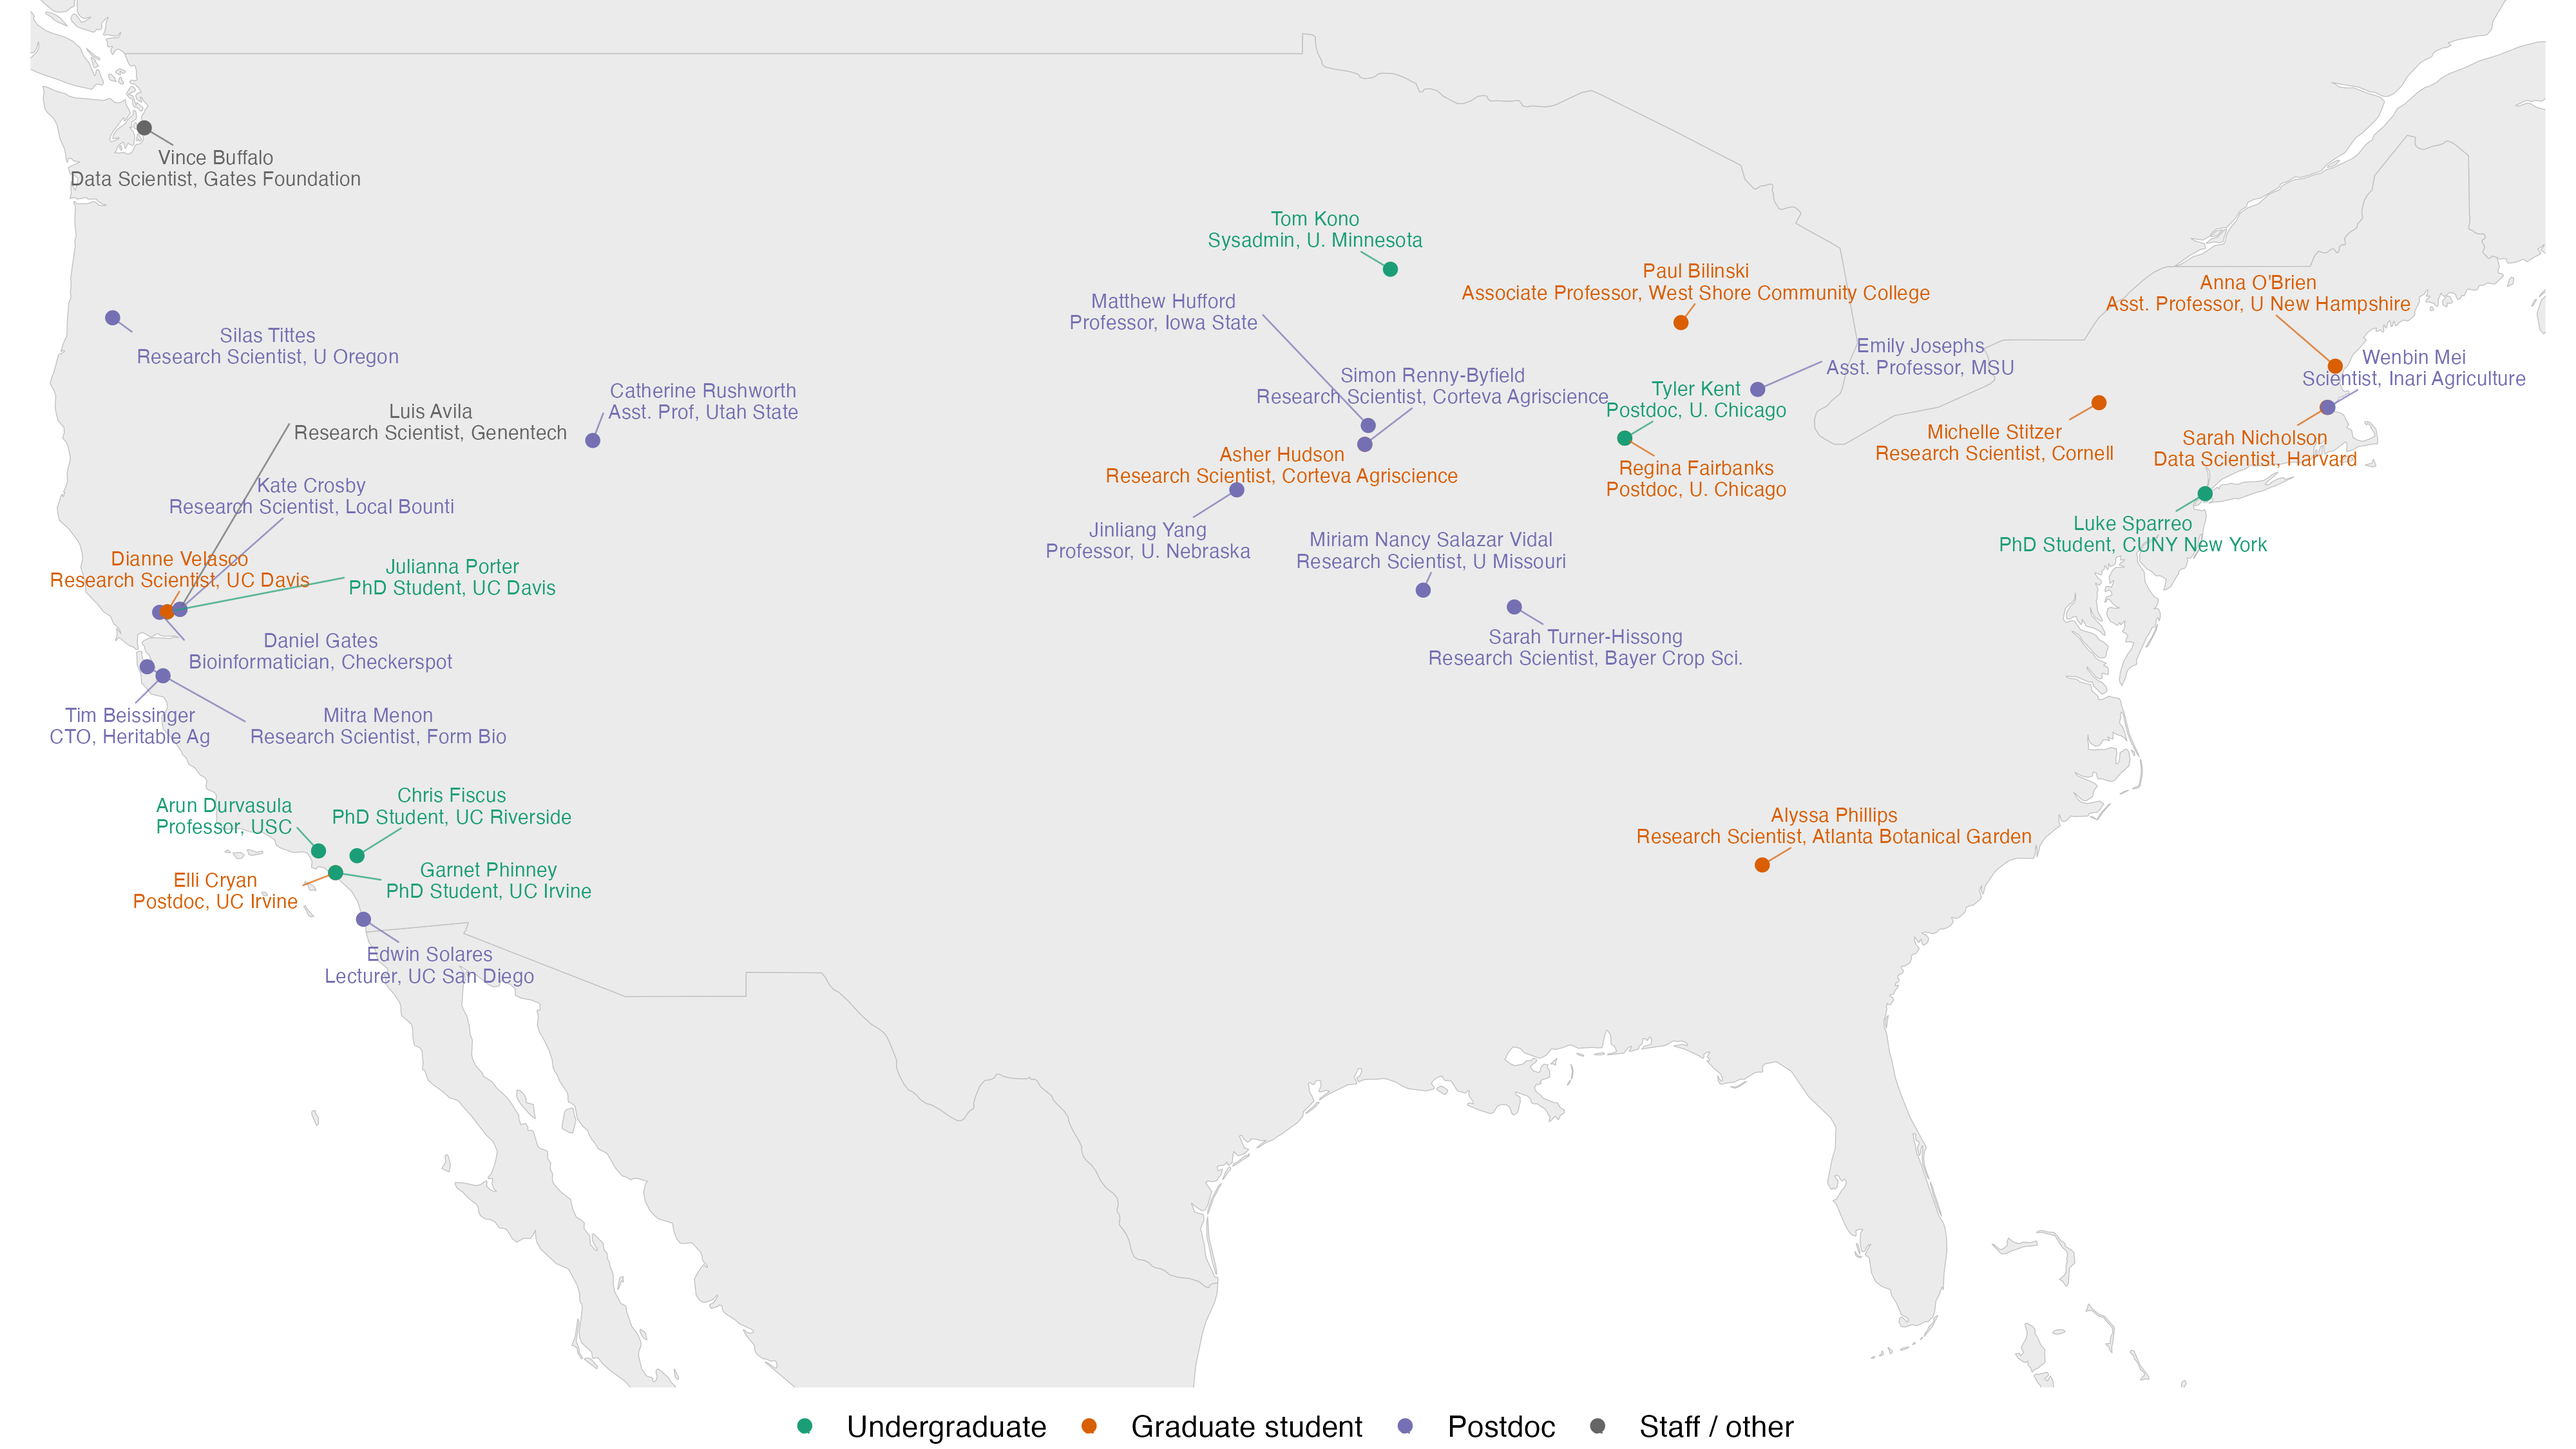
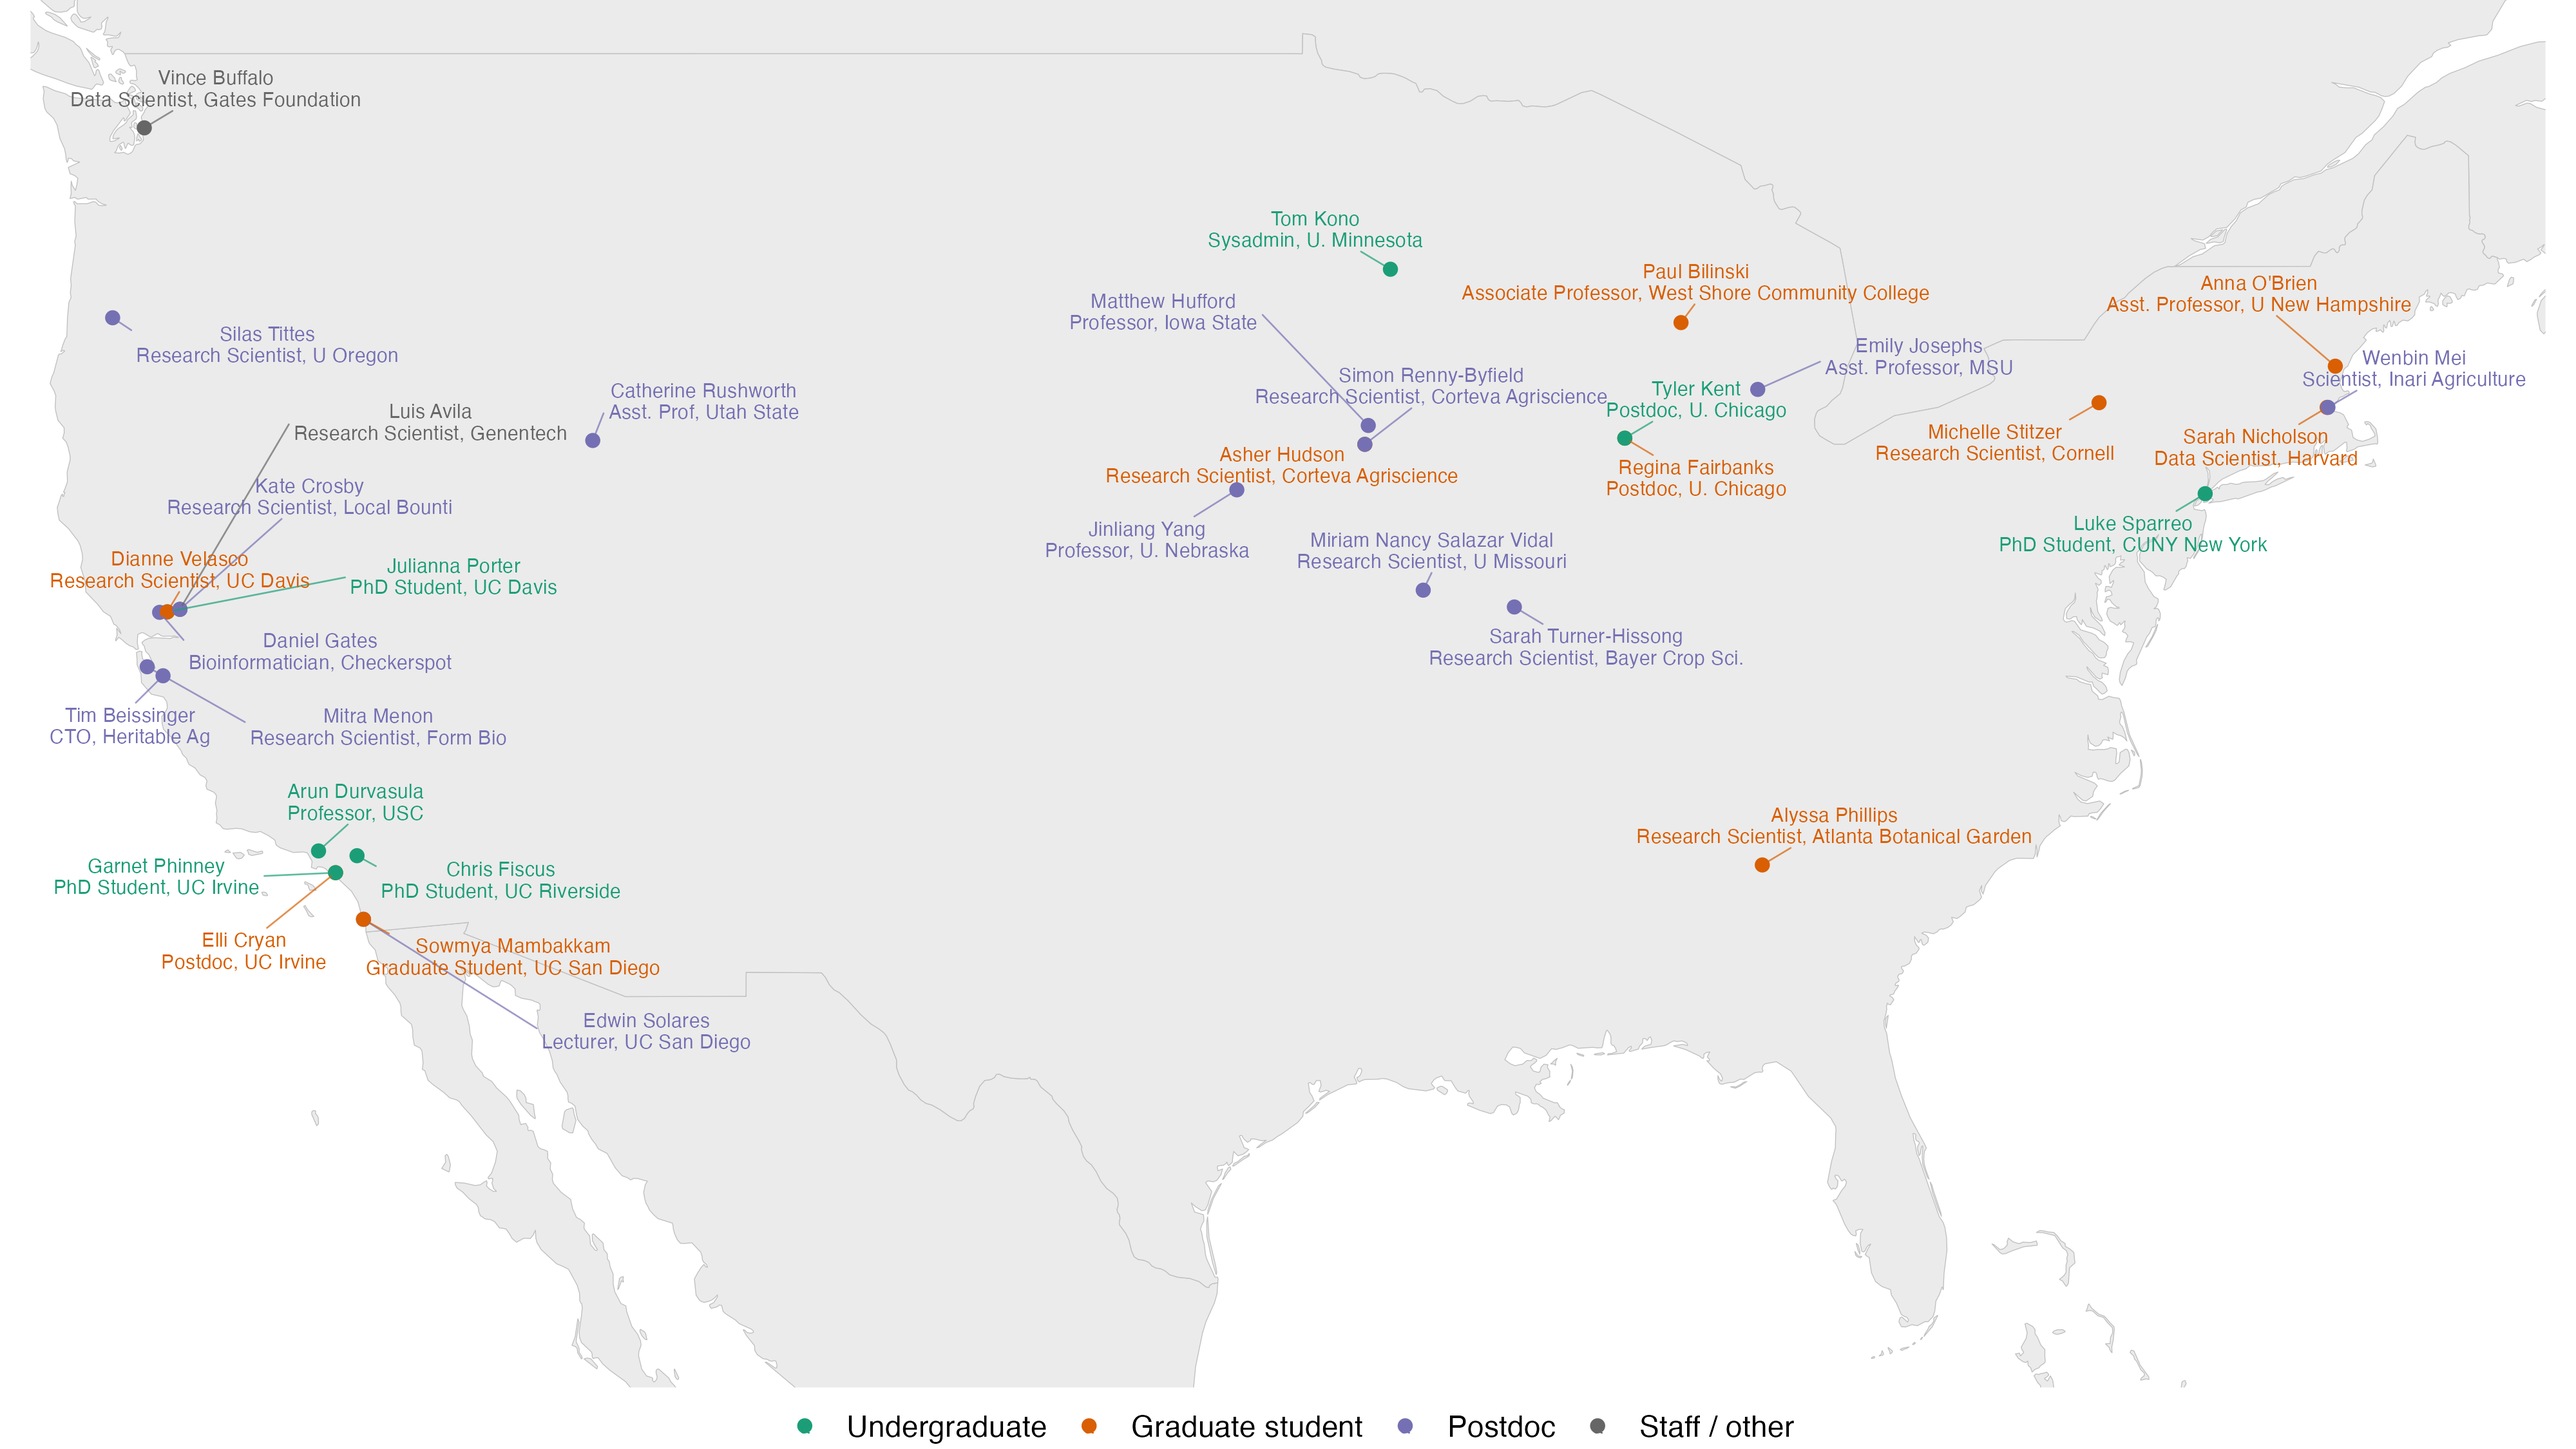
Add Sowmya Mambakkam and Tom Kono to alumni page and map
Sowmya added to the map as an MS student (now grad student, UC San Diego);
both added to people_alumni.csv. Restore umlauts in Tanja Pyhäjärvi's name
on the map.

diff --git a/people.html b/people.html
@@ -448,6 +448,7 @@ $(document).ready(function () {
 <li><a href="https://scholar.google.com/citations?user=3Q2yL_MAAAAJ&hl=en">Mitra Menon</a> Postdoc 2020-2022 (Computational Biologist, Form Bio)</li>
 <li><a href="https://github.com/juliannaporter">Julianna Porter</a> Postbac, 2021-2022 (PhD Student, UC Davis)</li>
 <li><a href="www.linkedin.com/in/luke-sparreo">Luke Sparreo</a> Summer REU, 2022</li>
+<li>Sowmya Mambakkam MS student (Graduate student, UC San Diego)</li>
 <li><a href="https://aihudson.github.io">Asher Hudson</a> PhD student, 2017-2022 (Postdoc, USDA NC State)</li>
 <li><a href="https://www.cathyrushworth.org">Catherine Rushworth</a> Postdoc 2018-2022 (Asst. Prof, Utah State)</li>
 <li><a href="https://scholar.google.com/citations?user=LxGAurUAAAAJ&hl=en">Silas Tittes</a> Postdoc 2018-2022 (Research Scientist, U Oregon)</li>
@@ -482,6 +483,7 @@ $(document).ready(function () {
 <li><a href="http://www.public.iastate.edu/~mhufford/HuffordLab/home.html">Matthew Hufford</a> Postdoc 2010-2013 (Assoc. Professor, Iowa State)</li>
 <li><a href="https://www2.helsinki.fi/en/researchgroups/forest-genomics">Tanja Pyhäjärvi</a> Postdoc 2010-2012 (Associate Professor, U. Helsinki)</li>
 <li><a href="http://www.wageningenur.nl/en/Persons/dr.ir.-J-Joost-van-Heerwaarden.htm">Joost van Heerwaarden</a> Postdoc 2009-2011 (Researcher, U. Wageningen)</li>
+<li>Tom Kono Undergraduate (Sysadmin, U. Minnesota)</li>
 </ul>
 <div id="visiting-scholar-for-100-hours-of-scholastic-visitation" class="section level3">
 <h3>Visiting Scholar: for &gt;100 hours of scholastic visitation</h3>
